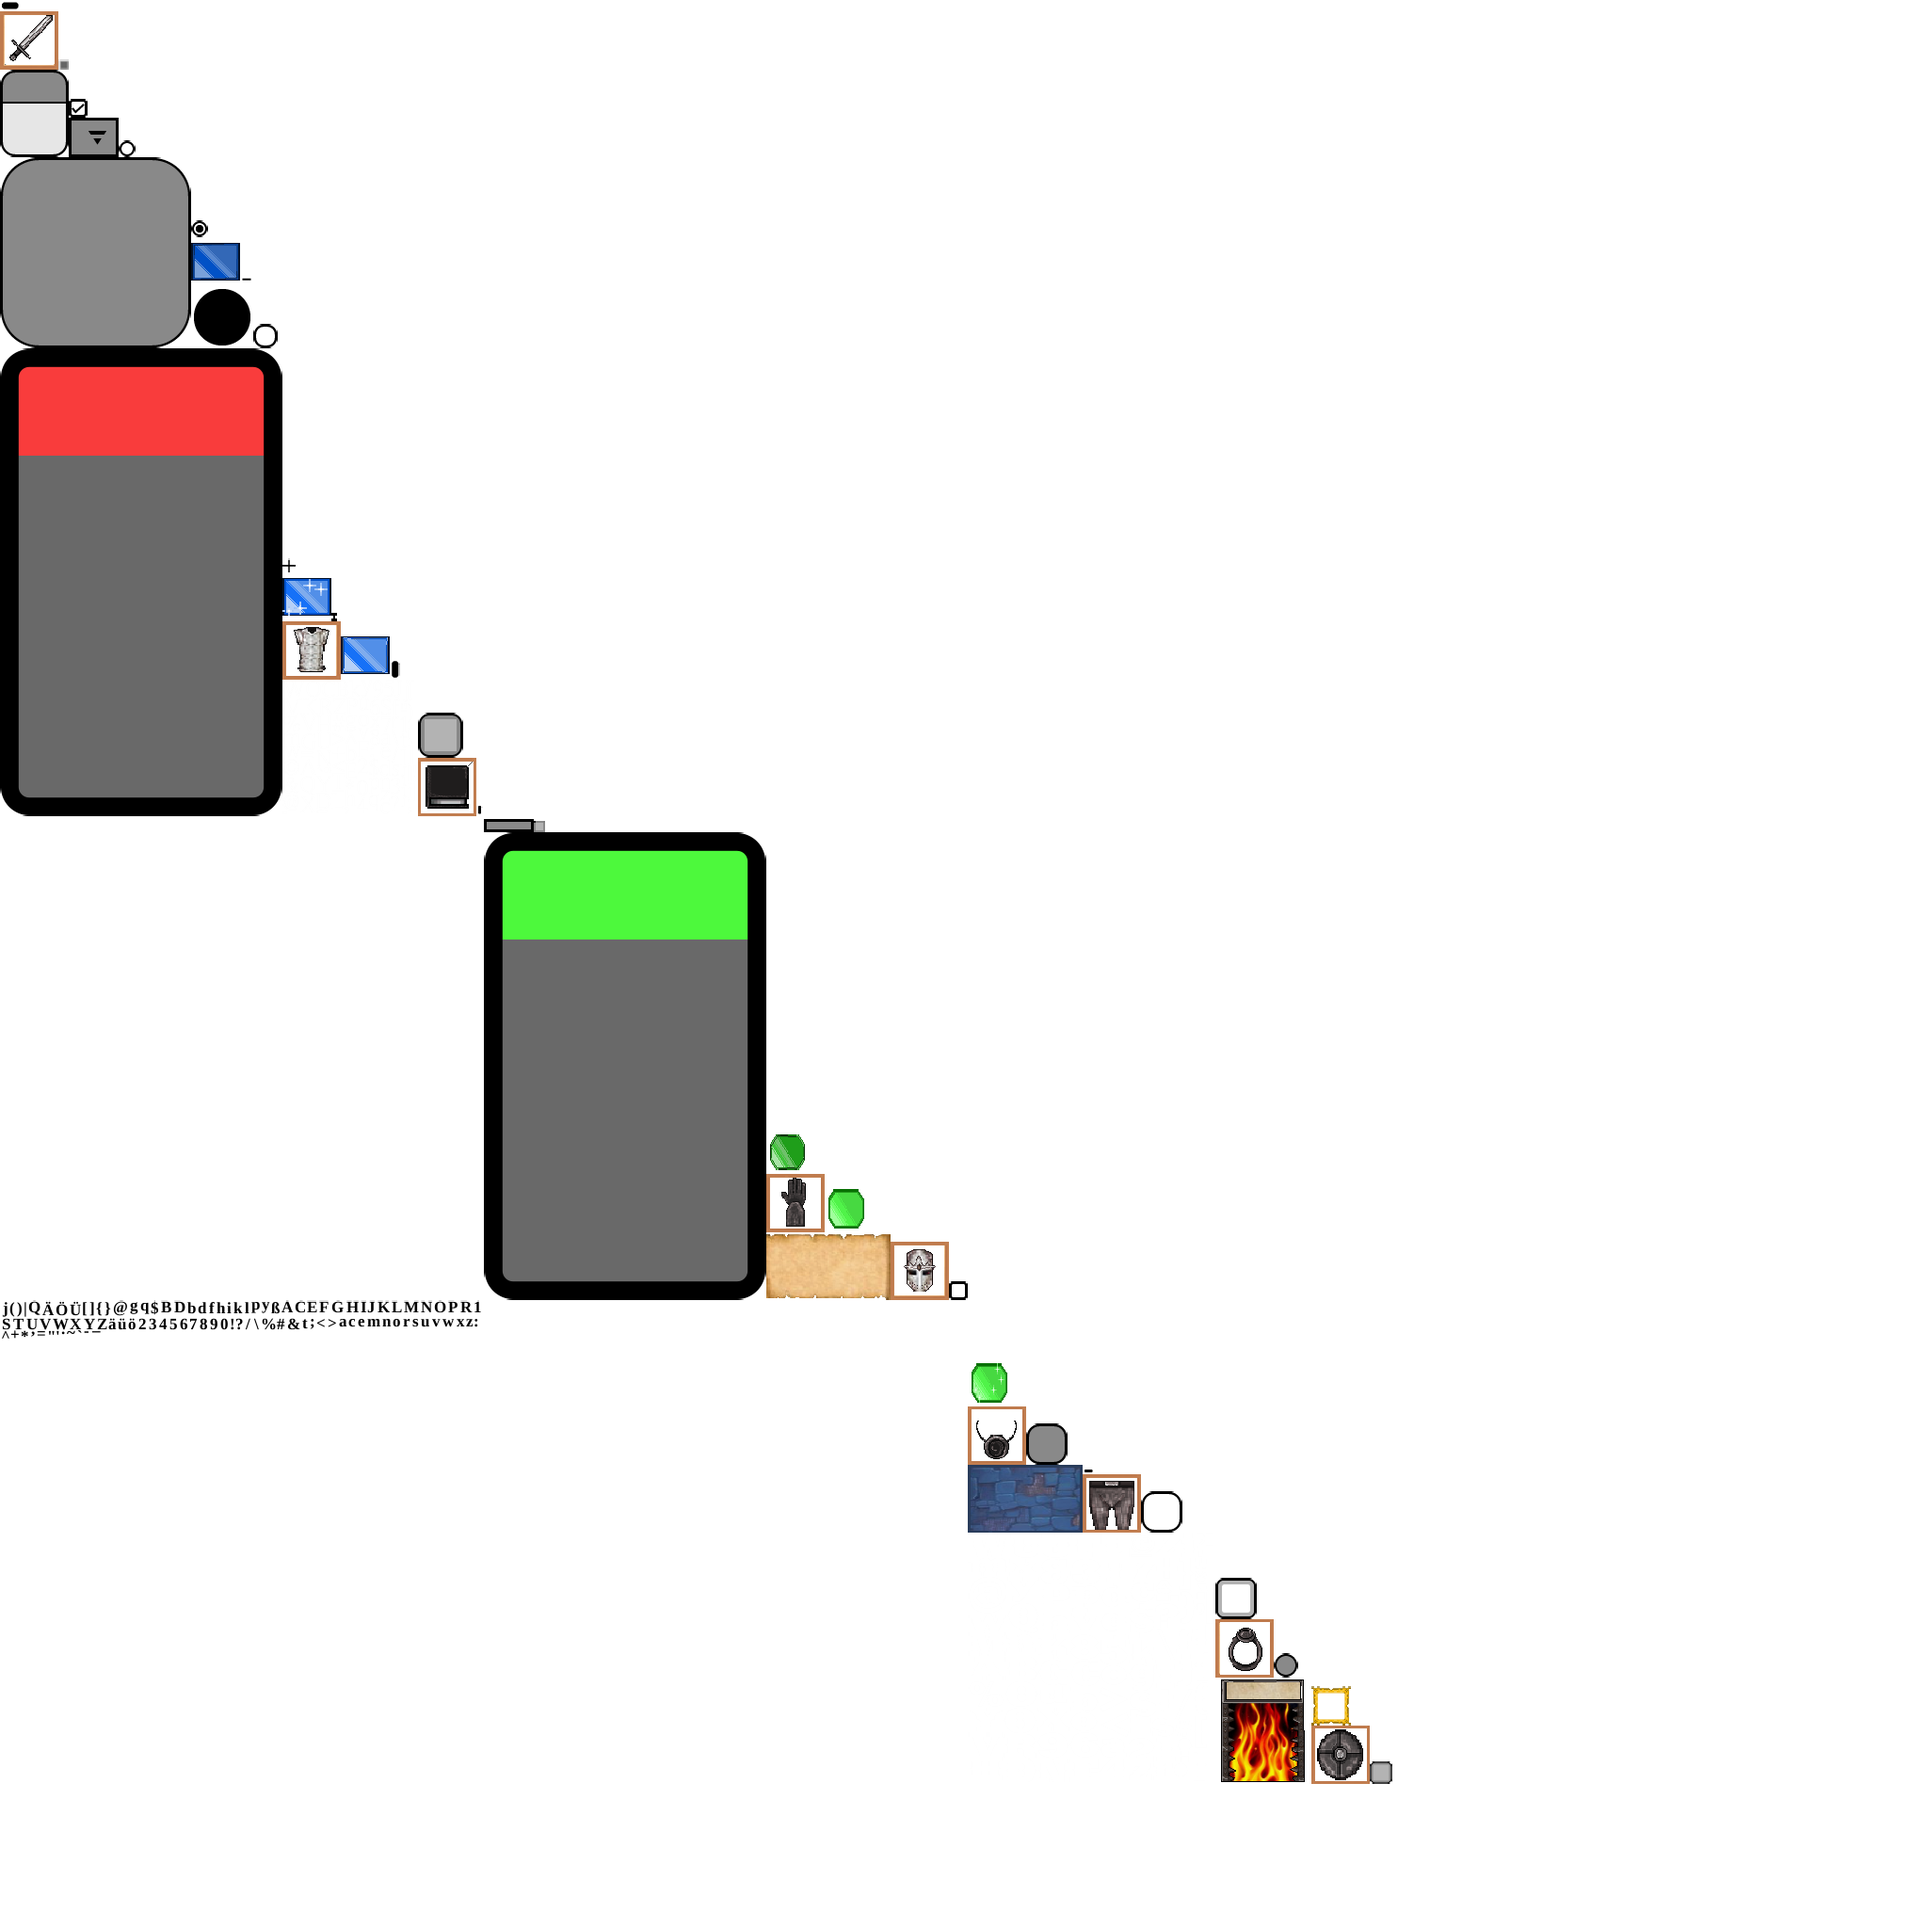
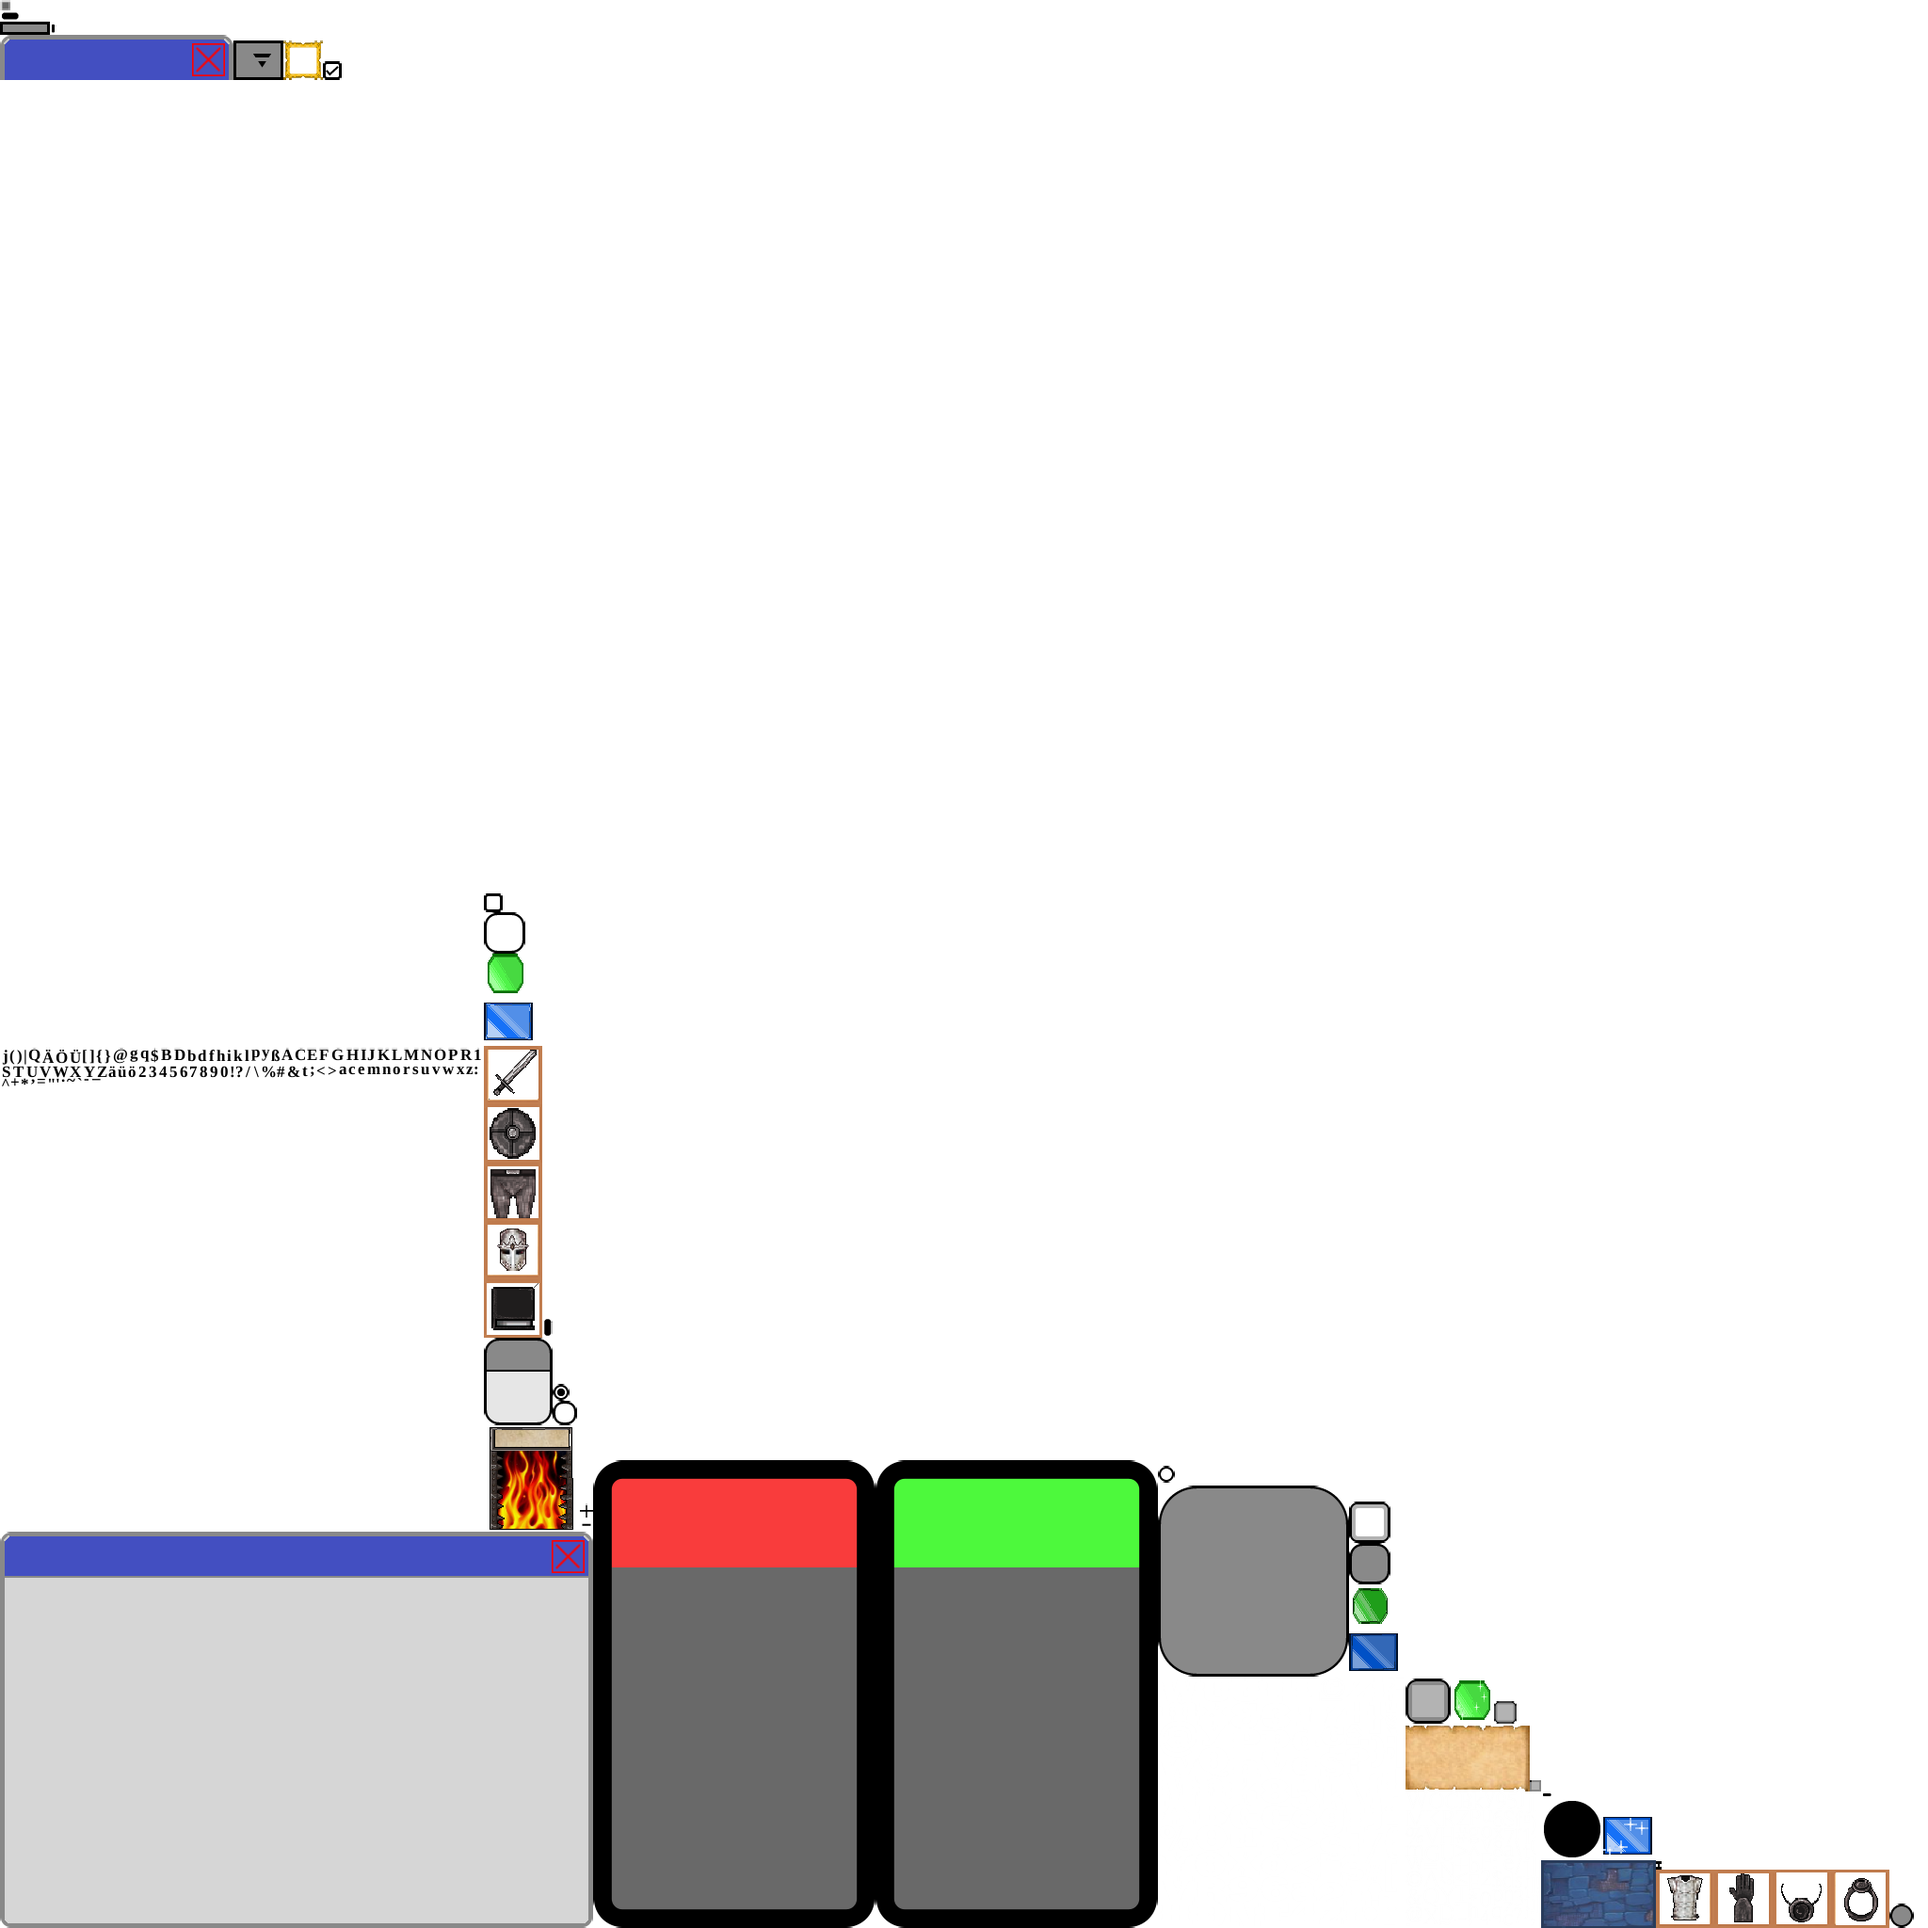
Add new 9 patches, MP server starter, Layout testing

Changed region(s): [[0.0, 0.0, 1.0, 1.0]]

diff --git a/theLastHourEscapeRoom/src/modules/computer/ComputerDialog.java b/theLastHourEscapeRoom/src/modules/computer/ComputerDialog.java
@@ -1,17 +1,22 @@
 package modules.computer;
 
 import com.badlogic.gdx.graphics.Color;
+import com.badlogic.gdx.graphics.g2d.Batch;
+import com.badlogic.gdx.graphics.glutils.ShapeRenderer;
+import com.badlogic.gdx.scenes.scene2d.Actor;
 import com.badlogic.gdx.scenes.scene2d.Group;
-import com.badlogic.gdx.scenes.scene2d.ui.Label;
-import com.badlogic.gdx.scenes.scene2d.ui.Skin;
-import com.badlogic.gdx.scenes.scene2d.ui.Table;
-import com.badlogic.gdx.scenes.scene2d.ui.TextField;
+import com.badlogic.gdx.scenes.scene2d.ui.*;
+import com.badlogic.gdx.scenes.scene2d.utils.Drawable;
 import com.badlogic.gdx.scenes.scene2d.utils.TextureRegionDrawable;
 import contrib.hud.UIUtils;
+import core.Game;
+import core.systems.CameraSystem;
 import core.utils.FontHelper;
 import core.utils.components.draw.TextureGenerator;
 
 public class ComputerDialog extends Group {
+
+  private static final ShapeRenderer SHAPE_RENDERER = new ShapeRenderer();
 
   private ComputerStateComponent state;
   private Skin skin;
@@ -19,6 +24,8 @@ public class ComputerDialog extends Group {
   public ComputerDialog(ComputerStateComponent state) {
     this.state = state;
     this.skin = UIUtils.defaultSkin();
+    this.setSize(Game.windowWidth(), Game.windowHeight());
+    this.setDebug(true, true);
     createActors();
   }
 
@@ -29,34 +36,40 @@ public class ComputerDialog extends Group {
 
 
   private void createActors(){
+    Drawable bg = new TextureRegionDrawable(TextureGenerator.generateColorTexture(100, 100, new Color(1, 0, 0, 0.2f)));
+
     Table container = new Table(skin);
     container.setFillParent(true);
-    container.background(new TextureRegionDrawable(TextureGenerator.generateColorTexture(100, 100, Color.RED)));
+    container.setBackground(bg);
     this.addActor(container);
 
     Label.LabelStyle labelStyle = new Label.LabelStyle();
     labelStyle.font = FontHelper.getFont(FontHelper.DEFAULT_FONT_PATH, 64, Color.WHITE, 4, Color.BLACK);
     labelStyle.fontColor = Color.WHITE;
-    Label label = new Label("Hello this is a very long text", labelStyle);
+    Label label = new Label("Hello this is a\nvery long text", labelStyle);
 
-    container.add(label);
-
-
-//    TextField tf = new TextField("", skin);
-//    tf.getStyle().
 
     // grid of size 3 rows x 2 columns, put the label in the middle left cell. No fixed sizes, use the available space
     // spread equally among all cells
 
-    container.row();
-    container.add().expand();
-    container.add(label).expand();
-    container.add().expand();
-    container.row();
-    container.add().expand();
-    container.add().expand();
-    container.add().expand();
+    container.defaults().expand().uniform().space(50);
+//    container.defaults().expand().fill();
 
+    container.add();
+    container.add();
+    container.add().row();
+
+    container.add();
+    container.add(label).center().pad(20);
+    container.add().row();
+
+    container.add();
+    container.add();
+    container.add();
   }
 
+  @Override
+  public void draw(Batch batch, float parentAlpha) {
+    super.draw(batch, parentAlpha);
+  }
 }

diff --git a/theLastHourEscapeRoom/src/starter/TheLastHour.java b/theLastHourEscapeRoom/src/starter/TheLastHour.java
@@ -1,6 +1,8 @@
 package starter;
 
+import com.badlogic.gdx.scenes.scene2d.Stage;
 import contrib.entities.EntityFactory;
+import contrib.entities.HeroController;
 import contrib.modules.keypad.KeypadSystem;
 import contrib.systems.CollisionSystem;
 import contrib.systems.DebugDrawSystem;
@@ -8,7 +10,12 @@ import contrib.systems.LevelEditorSystem;
 import contrib.utils.components.Debugger;
 import core.Game;
 import core.configuration.KeyboardConfig;
+import core.game.ECSManagement;
+import core.game.GameLoop;
+import core.game.PreRunConfiguration;
 import core.level.loader.DungeonLoader;
+import core.network.messages.s2c.LevelChangeEvent;
+import core.systems.*;
 import core.utils.Tuple;
 import core.utils.components.path.SimpleIPath;
 import java.io.IOException;
@@ -25,12 +32,21 @@ import level.LastHourLevel1;
  */
 public class TheLastHour {
 
+  private static boolean DEBUG_MODE = true;
+  private static boolean RUN_MP_SERVER = false;
+
   /**
    * Main entry point to launch the basic dungeon game.
    *
    * @param args command-line arguments (not used in this starter)
    */
   public static void main(String[] args) {
+    if(RUN_MP_SERVER){
+      Game.userOnFrame(TheLastHour::onFrame);
+      PreRunConfiguration.multiplayerEnabled(true);
+      PreRunConfiguration.isNetworkServer(true);
+    }
+
     DungeonLoader.addLevel(Tuple.of("lasthour", LastHourLevel1.class));
     try {
       Game.loadConfig(new SimpleIPath("dungeon_config.json"), KeyboardConfig.class);
@@ -45,12 +61,35 @@ public class TheLastHour {
   }
 
   private static void onUserSetup() {
-    Game.add(EntityFactory.newHero());
+    if(RUN_MP_SERVER){
+      ECSManagement.add(new PositionSystem());
+      ECSManagement.add(new VelocitySystem());
+      ECSManagement.add(new FrictionSystem());
+      ECSManagement.add(new MoveSystem());
 
-    Game.add(new CollisionSystem());
-    Game.add(new KeypadSystem());
-    Game.add(new Debugger());
-    Game.add(new DebugDrawSystem());
-    Game.add(new LevelEditorSystem());
+      ECSManagement.system(
+        LevelSystem.class,
+        levelSystem ->
+          levelSystem.onLevelLoad(() -> {
+            GameLoop.onLevelLoad.execute();
+            Game.network().broadcast(LevelChangeEvent.currentLevel(), true);
+          }));
+    } else {
+      Game.add(EntityFactory.newHero());
+      Game.stage().ifPresent(stage -> stage.setDebugAll(true));
+    }
+
+    ECSManagement.add(new CollisionSystem());
+    ECSManagement.add(new KeypadSystem());
+
+    if(DEBUG_MODE && !Game.isHeadless()){
+      ECSManagement.add(new Debugger());
+      ECSManagement.add(new DebugDrawSystem());
+      ECSManagement.add(new LevelEditorSystem());
+    }
+  }
+
+  private static void onFrame() {
+    HeroController.drainAndApplyInputs();
   }
 }

diff --git a/theLastHourEscapeRoom/src/modules/computer/ComputerFactory.java b/theLastHourEscapeRoom/src/modules/computer/ComputerFactory.java
@@ -21,7 +21,7 @@ public class ComputerFactory {
 
   public static void attachComputerDialog(Entity entity){
     entity.add(new InteractionComponent(() -> new Interaction((e, who) -> {
-      DialogFactory.show(DialogContext.builder().type(LastHourDialogTypes.COMPUTER).build());
+      DialogFactory.show(DialogContext.builder().type(LastHourDialogTypes.COMPUTER).build(), who.id());
     })));
   }
 
